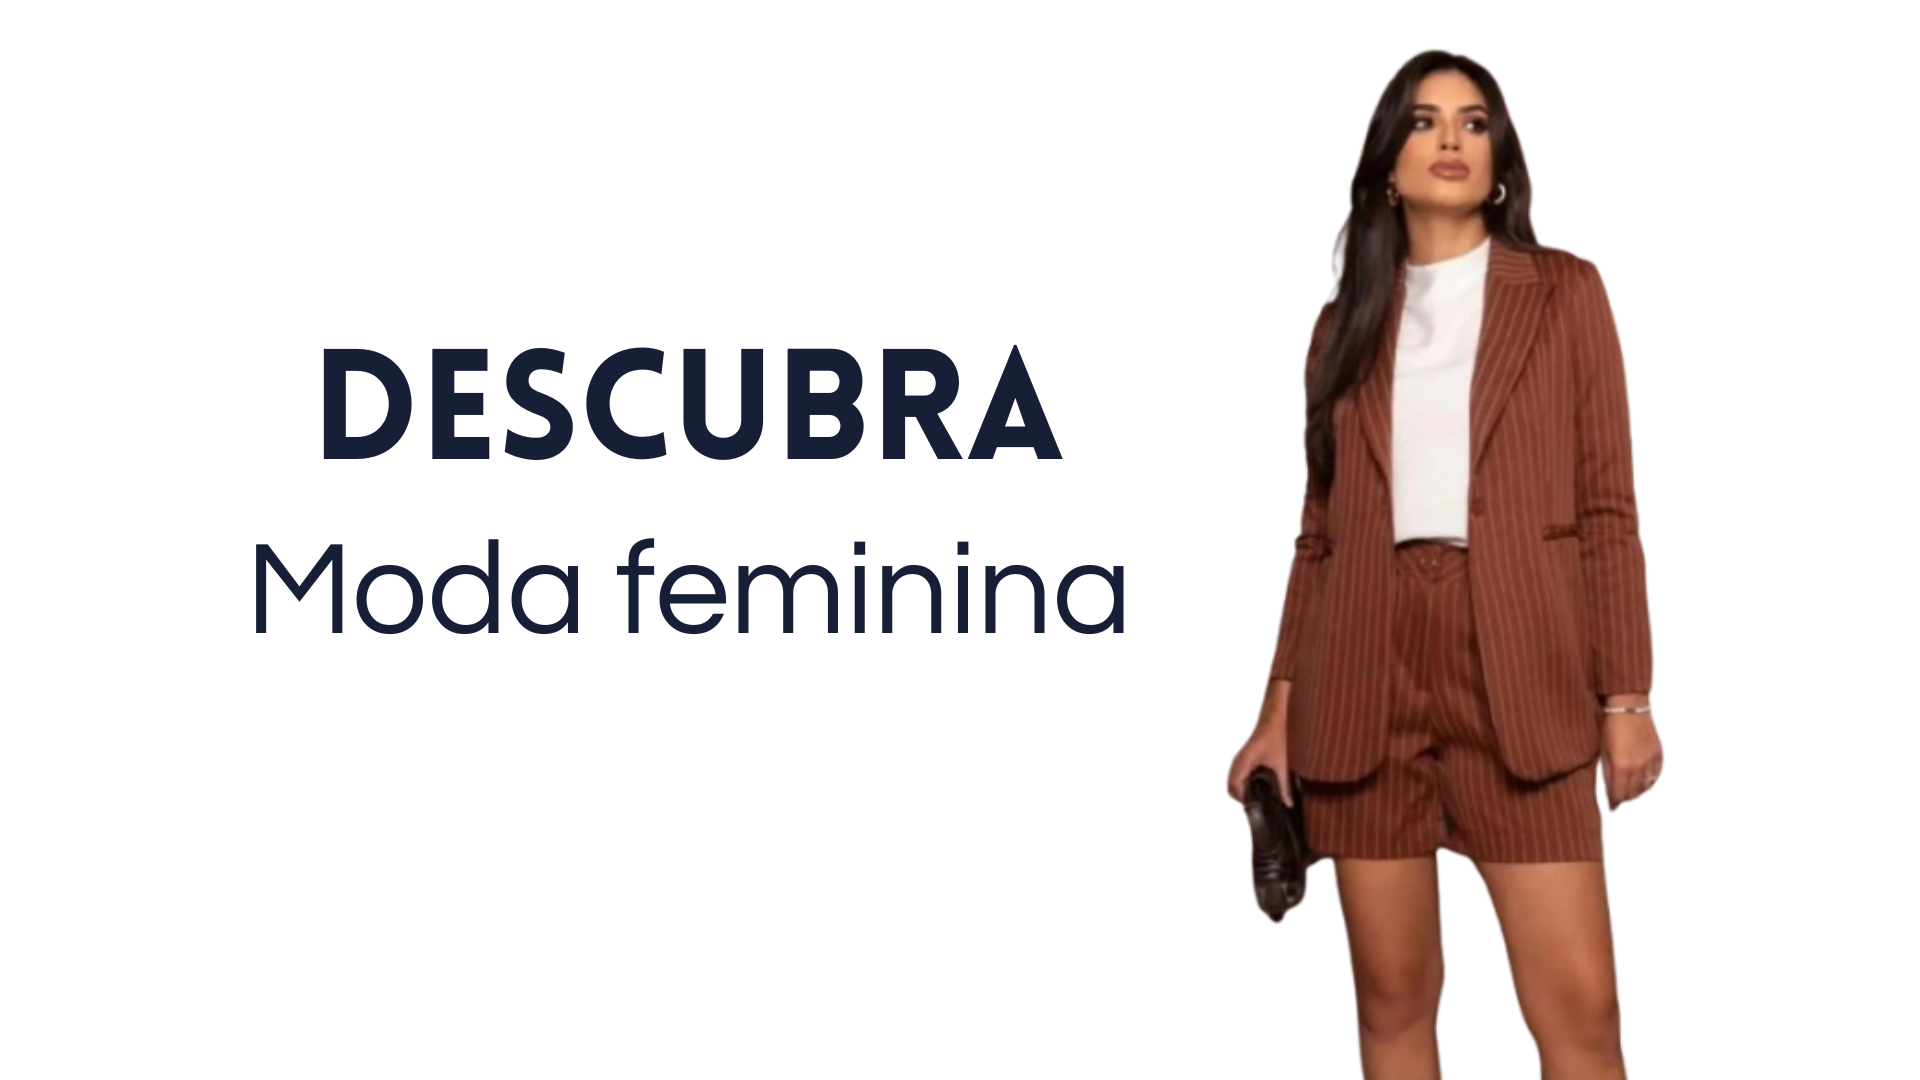
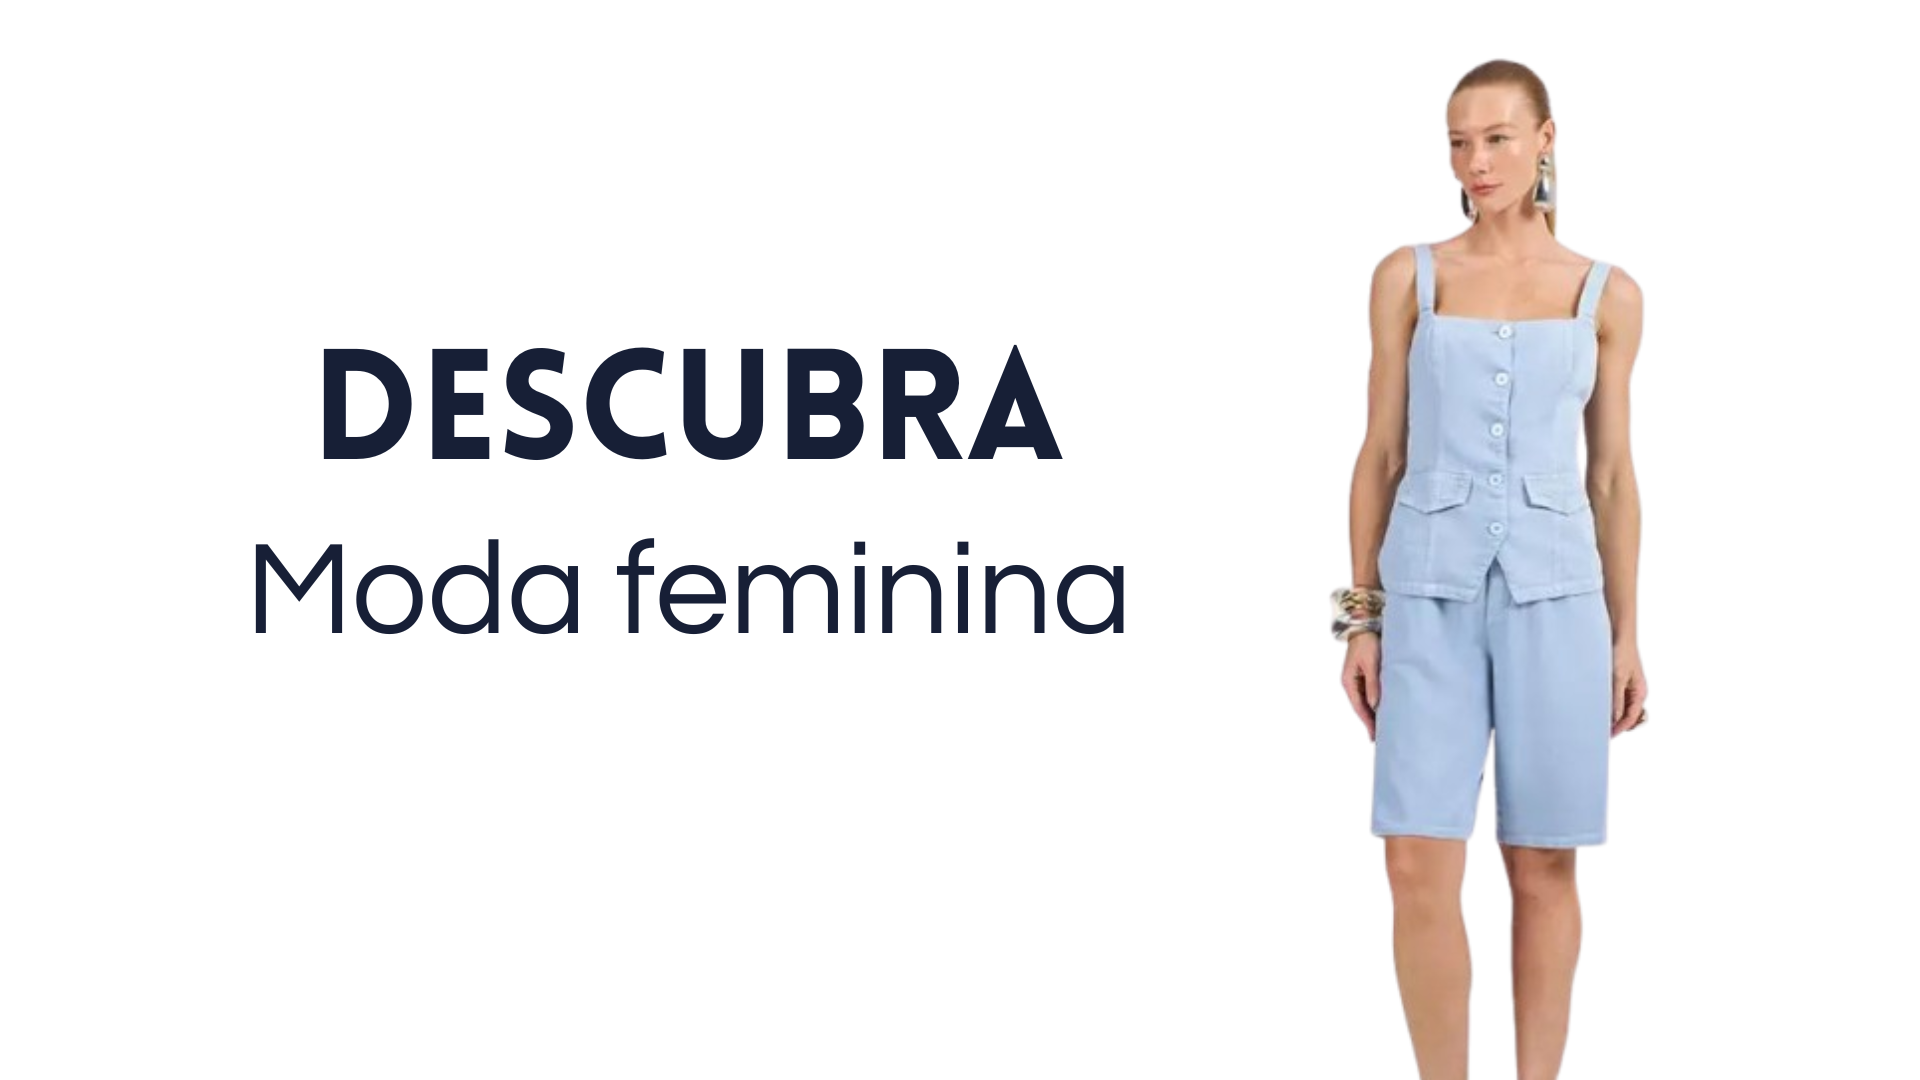
add pics

Changed region(s): [[0.625, 0.0306, 0.875, 1.0]]

diff --git a/sites/site polo sul/script.js b/sites/site polo sul/script.js
@@ -5,284 +5,292 @@ const productData = {
       id: 1,
       name: "Camiseta Básica",
       price: "R$ 79,90",
-      image: "https://via.placeholder.com/400x400?text=Camiseta+Básica",
+      image: "images/",
     },
     {
       id: 2,
       name: "Calça Jeans Slim",
       price: "R$ 159,90",
-      image: "https://via.placeholder.com/400x400?text=Calça+Jeans",
+      image: "images/",
     },
     {
       id: 3,
       name: "Camisa Social",
       price: "R$ 129,90",
-      image: "https://via.placeholder.com/400x400?text=Camisa+Social",
+      image: "images/",
     },
     {
       id: 4,
       name: "Bermuda Casual",
       price: "R$ 89,90",
-      image: "https://via.placeholder.com/400x400?text=Bermuda+Casual",
+      image: "images/",
     },
     {
       id: 5,
       name: "Blazer Clássico",
       price: "R$ 249,90",
-      image: "https://via.placeholder.com/400x400?text=Blazer+Clássico",
+      image: "images/",
     },
     {
       id: 6,
       name: "Jaqueta de Couro",
       price: "R$ 299,90",
-      image: "https://via.placeholder.com/400x400?text=Jaqueta+Couro",
+      image: "images/",
     },
     {
       id: 7,
       name: "Bota Feminina",
       price: "R$ 229,90",
-      image: "https://via.placeholder.com/400x400?text=Bota+Feminina",
+      image: "images/",
     },
      {
       id: 8,
       name: "Bota Feminina",
       price: "R$ 229,90",
-      image: "https://via.placeholder.com/400x400?text=Bota+Feminina",
+      image: "images/",
     },
     {
       id: 9,
       name: "Bota Feminina",
       price: "R$ 229,90",
-      image: "https://via.placeholder.com/400x400?text=Bota+Feminina",
+      image: "images/",
     }, 
     {
       id: 10,
       name: "Bota Feminina",
       price: "R$ 229,90",
-      image: "https://via.placeholder.com/400x400?text=Bota+Feminina",
+      image: "images/",
     },
      {
       id: 11,
       name: "Bota Feminina",
       price: "R$ 229,90",
-      image: "https://via.placeholder.com/400x400?text=Bota+Feminina",
+      image: "images/",
     },
     {
       id: 12,
       name: "Bota Feminina",
       price: "R$ 229,90",
-      image: "https://via.placeholder.com/400x400?text=Bota+Feminina",
+      image: "images/",
     }, 
   ],
   feminina: [
     {
       id: 1,
-      name: "Vestido Elegante",
-      price: "R$ 199,90",
-      image: "https://via.placeholder.com/400x400?text=Vestido+Elegante",
+      name: "Blusa Enfim ",
+      price: "R$ 10,60",
+      image: "images/BlusaEnfim1060.jpg",
     },
     {
       id: 2,
-      name: "Blusa de Tricô",
-      price: "R$ 149,90",
-      image: "https://via.placeholder.com/400x400?text=Blusa+Tricô",
+      name: "Blusa Malwee",
+      price: "R$ 7,99",
+      image: "images/BlusaMalwee799.jpg",
     },
-    { id: 3, name: "Saia Midi", price: "R$ 119,90", image: "https://via.placeholder.com/400x400?text=Saia+Midi" },
+    { id: 3, 
+      name: "Saia Midi", 
+      price: "R$ 119,90", 
+      image: "images/BlusaViscolycra450.jpg" 
+    },
     {
       id: 4,
-      name: "Calça Legging",
-      price: "R$ 89,90",
-      image: "https://via.placeholder.com/400x400?text=Calça+Legging",
+      name: "Bolsa Cheson",
+      price: "R$ 24,95",
+      image: "images/BolsaChenson2495.jpg",
     },
     {
       id: 5,
-      name: "Jaqueta Jeans",
-      price: "R$ 179,90",
-      image: "https://via.placeholder.com/400x400?text=Jaqueta+Jeans",
+      name: "Bolsa Cheson",
+      price: "R$ 354,99",
+      image: "images/BolsaChenson35499.jpg",
     },
     {
       id: 6,
-      name: "Conjunto Moletom",
-      price: "R$ 229,90",
-      image: "https://via.placeholder.com/400x400?text=Conjunto+Moletom",
+      name: "Camisa Linho",
+      price: "R$ 25,90",
+      image: "images/CamisaLinho2590.jpg",
     },
     {
       id: 7,
-      name: "Bota Feminina",
-      price: "R$ 229,90",
-      image: "https://via.placeholder.com/400x400?text=Bota+Feminina",
+      name: "Conjunto Alfaiataria",
+      price: "R$ 33,90",
+      image: "images/ConjuntoAlfaiataria3990.jpg",
     },
      {
       id: 8,
-      name: "Bota Feminina",
-      price: "R$ 229,90",
-      image: "https://via.placeholder.com/400x400?text=Bota+Feminina",
+      name: "Vestido Malwee",
+      price: "R$ 20,90",
+      image: "images/VestidoMalwee2090.jpg",
     },
     {
       id: 9,
       name: "Bota Feminina",
       price: "R$ 229,90",
-      image: "https://via.placeholder.com/400x400?text=Bota+Feminina",
+      image: "images/",
     },
-    {
+    /*{
       id: 10,
       name: "Bota Feminina",
       price: "R$ 229,90",
-      image: "https://via.placeholder.com/400x400?text=Bota+Feminina",
+      image: "images/",
     },
      {
       id: 11,
       name: "Bota Feminina",
       price: "R$ 229,90",
-      image: "https://via.placeholder.com/400x400?text=Bota+Feminina",
+      image: "images/",
     },
     {
       id: 12,
       name: "Bota Feminina",
       price: "R$ 229,90",
-      image: "https://via.placeholder.com/400x400?text=Bota+Feminina",
-    }, 
+      image: "images/",
+    },*/ 
   ],
   infantil: [
     {
       id: 1,
       name: "Conjunto Infantil Hering",
       price: "R$ 99,90",
-      image: "https://via.placeholder.com/400x400?text=Conjunto+Infantil",
+      image: "images/",
     },
     {
       id: 2,
       name: "Camiseta Estampada",
       price: "R$ 59,90",
-      image: "https://via.placeholder.com/400x400?text=Camiseta+Estampada",
+      image: "images/",
     },
     {
       id: 3,
       name: "Vestido Infantil",
       price: "R$ 89,90",
-      image: "https://via.placeholder.com/400x400?text=Vestido+Infantil",
+      image: "images/",
     },
     {
       id: 4,
       name: "Calça Moletom Kids",
       price: "R$ 69,90",
-      image: "https://via.placeholder.com/400x400?text=Calça+Moletom",
+      image: "images/",
     },
     {
       id: 5,
       name: "Jaqueta Infantil",
       price: "R$ 119,90",
-      image: "https://via.placeholder.com/400x400?text=Jaqueta+Infantil",
+      image: "images/",
     },
     {
       id: 6,
       name: "Pijama Infantil",
       price: "R$ 79,90",
-      image: "https://via.placeholder.com/400x400?text=Pijama+Infantil",
+      image: "images/",
     },
     {
       id: 7,
       name: "Bota Feminina",
       price: "R$ 229,90",
-      image: "https://via.placeholder.com/400x400?text=Bota+Feminina",
+      image: "images/",
     },
      {
       id: 8,
       name: "Bota Feminina",
       price: "R$ 229,90",
-      image: "https://via.placeholder.com/400x400?text=Bota+Feminina",
+      image: "images/",
     },
     {
       id: 9,
       name: "Bota Feminina",
       price: "R$ 229,90",
-      image: "https://via.placeholder.com/400x400?text=Bota+Feminina",
+      image: "images/",
     },
     {
       id: 10,
       name: "Bota Feminina",
       price: "R$ 229,90",
-      image: "https://via.placeholder.com/400x400?text=Bota+Feminina",
+      image: "images/",
     },
      {
       id: 11,
       name: "Bota Feminina",
       price: "R$ 229,90",
-      image: "https://via.placeholder.com/400x400?text=Bota+Feminina",
+      image: "images/",
     },
     {
       id: 12,
       name: "Bota Feminina",
       price: "R$ 229,90",
-      image: "https://via.placeholder.com/400x400?text=Bota+Feminina",
+      image: "images/",
     }, 
   ],
   calcados: [
-    { id: 1, name: "Tênis Casual", price: "R$ 179,90", image: "https://via.placeholder.com/400x400?text=Tênis+Casual" },
+    { id: 1, 
+      name: "Via Marte", 
+      price: "R$ 16,99", 
+      image: "images/ViaMarte1699.jpg" 
+    },
     {
       id: 2,
-      name: "Sapato Social",
-      price: "R$ 199,90",
-      image: "https://via.placeholder.com/400x400?text=Sapato+Social",
+      name: "Via Marte",
+      price: "R$ 19,99",
+      image: "images/ViaMarte1999.jpg",
     },
     {
       id: 3,
-      name: "Sandália Feminina",
-      price: "R$ 129,90",
-      image: "https://via.placeholder.com/400x400?text=Sandália+Feminina",
+      name: "Via Marte",
+      price: "R$ 21,99",
+      image: "images/ViaMarte2199.jpg",
     },
     {
       id: 4,
-      name: "Tênis Infantil",
-      price: "R$ 149,90",
-      image: "https://via.placeholder.com/400x400?text=Tênis+Infantil",
+      name: "Via Marte",
+      price: "R$ 29,99",
+      image: "images/ViaMarte2999",
     },
     { id: 5, 
       name: "Chinelo", 
       price: "R$ 59,90", 
-      image: "https://via.placeholder.com/400x400?text=Chinelo" 
+      image: "images/" 
     },
     {
       id: 6,
       name: "Bota Feminina",
       price: "R$ 229,90",
-      image: "https://via.placeholder.com/400x400?text=Bota+Feminina",
+      image: "images/",
     },
     {
       id: 7,
       name: "Bota Feminina",
       price: "R$ 229,90",
-      image: "https://via.placeholder.com/400x400?text=Bota+Feminina",
+      image: "images/",
     },
      {
       id: 8,
       name: "Bota Feminina",
       price: "R$ 229,90",
-      image: "https://via.placeholder.com/400x400?text=Bota+Feminina",
+      image: "images/",
     },
     {
       id: 9,
       name: "Bota Feminina",
       price: "R$ 229,90",
-      image: "https://via.placeholder.com/400x400?text=Bota+Feminina",
+      image: "images/",
     },  
     {
       id: 10,
       name: "Bota Feminina",
       price: "R$ 229,90",
-      image: "https://via.placeholder.com/400x400?text=Bota+Feminina",
+      image: "images/",
     },
      {
       id: 11,
       name: "Bota Feminina",
       price: "R$ 229,90",
-      image: "https://via.placeholder.com/400x400?text=Bota+Feminina",
+      image: "images/",
     },
     {
       id: 12,
       name: "Bota Feminina",
       price: "R$ 229,90",
-      image: "https://via.placeholder.com/400x400?text=Bota+Feminina",
+      image: "images/",
     }, 
   ],
 }
